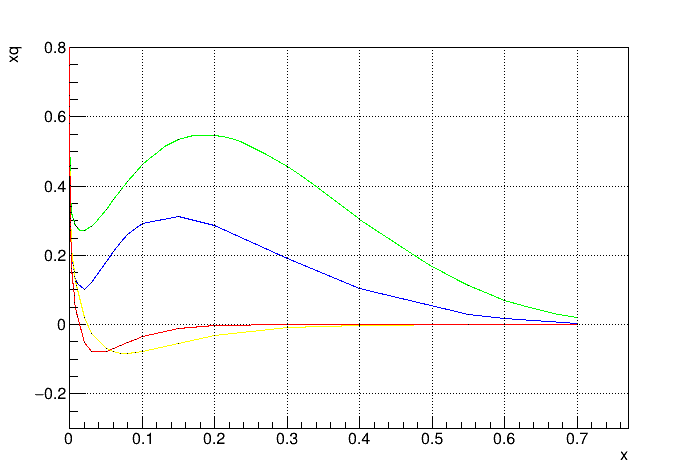
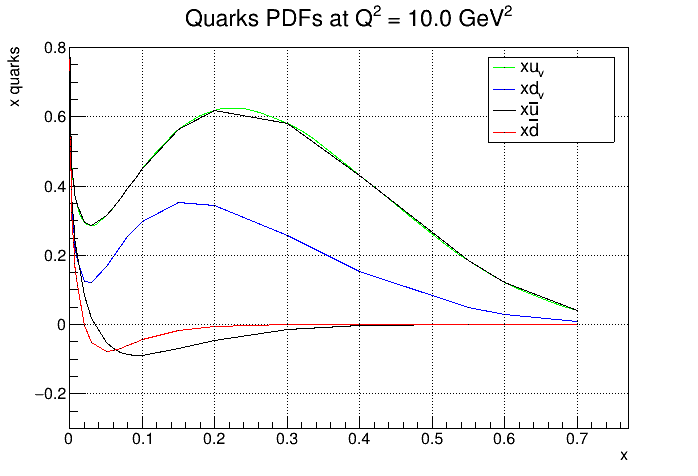
corrections in pdfs constants, including gluon graph in pdf_evolution_graphs and deleting old files

diff --git a/pyroot_graphs.py b/pyroot_graphs.py
@@ -3,14 +3,30 @@ import glob
 import pandas as pd
 import numpy as np
 from PIL import Image
+import pdf_parametrizations as pp # the pdf functions
 
 pdf_directory_url = "/opt/qcdnum-17-01-14/output/"
 imgs_url = "/home/angelica/Downloads/thesis/imgs/root/"
 names = []
 
+
+# PDFs
+def x_uv(x):
+  A, B, C, D, E, F, G = pp.A_uv, pp.B_uv, pp.C_uv , 0, pp.E_uv, pp.F_uv, pp.G_uv
+  return A*x**B * (1-x)**C * (1 + D*x + E*x**2 + F*np.log(x) + G*np.log(x)**2) 
+def x_dv(x):
+  A, B, C, D, E, F, G = 0, pp.B_dv, pp.C_dv, 0, 0 , 0, 0
+  return A*x**B * (1-x)**C * (1 + D*x + E*x**2 + F*np.log(x) + G*np.log(x)**2) 
+
+
+# for quarks:
 c1 = ROOT.TCanvas('c1', 'quarks PDFs', 200, 10, 700, 500)
-c1.cd()
 c1.SetGrid()
+
+# for the gluon:
+#c2 = ROOT.TCanvas('c2', 'gluon PDF', 200, 10, 700, 500)
+#c2.SetGrid()
+
 
 # for each pdf file
 for csv in glob.glob(pdf_directory_url + "*.csv"):
@@ -20,7 +36,7 @@ for csv in glob.glob(pdf_directory_url + "*.csv"):
   # to get the q energy scale
   array = csv.split("_")
   q = float(array[2][:-4])
-  names.append(int(q*10))
+  names.append(int(q*100))
   
   # the pdfs
   x = np.asarray(dataset.iloc[:,0])
@@ -31,31 +47,66 @@ for csv in glob.glob(pdf_directory_url + "*.csv"):
 
   xuv, xdv, xubar, xdbar = pdfs[0], pdfs[1], pdfs[2], pdfs[3]
 
-  # Graphs
-  xuv_graph = ROOT.TGraph(number_lines, x, xuv)
-  xuv_graph.SetLineColor(3)             # TAttLine Class attributes: https://root.cern.ch/doc/master/classTAttLine.html
-  xuv_graph.SetTitle(" ")
-  xuv_graph.GetXaxis().SetTitle("x")
-  xuv_graph.GetYaxis().SetTitle(r"xq")
-  xuv_graph.GetYaxis().SetRangeUser(-0.3,0.8)
-  #xuv_graph.GetXaxis().SetRangeUser(0,1)
 
+  # TGraphs for quarks
+  xuv_graph = ROOT.TGraph(number_lines, x, xuv)
   xdv_graph = ROOT.TGraph(number_lines, x, xdv)
-  xdv_graph.SetLineColor(4) 
   xubar_graph = ROOT.TGraph(number_lines, x, xubar)
-  xubar_graph.SetLineColor(5) 
   xdbar_graph = ROOT.TGraph(number_lines, x, xdbar)
+  
+  xuv_fitting = ROOT.TGraph(number_lines, x, xuv)
+
+  # line color
+  xuv_graph.SetLineColor(3)             # TAttLine Class attributes: https://root.cern.ch/doc/master/classTAttLine.html
+  xdv_graph.SetLineColor(4) 
   xdbar_graph.SetLineColor(2)
 
-  # Draw this graph with its current attributes
-  xuv_graph.Draw("ACP")   # in parenthesis are the options (see: https://root.cern.ch/doc/master/classTGraphPainter.html)
+  # least square fit
+  xuv_fitting.LeastSquareFit(1, x_uv(x))  #6, [pp.A_uv, pp.B_uv, pp.C_uv, pp.E_uv, pp.F_uv, pp.G_uv]
+
+  # converting from python functions to TF1 ROOT classes
+  TF1_xuv = ROOT.TF1("TF1_xuv", "[0]*TMath::Power(x, [1]) * TMath::Power(1-x, [2]) * (1 + [3]*x + [4]*TMath::Power(x, 2) + [5]*TMath::Log(x) + [6]* TMath::Power(TMath::Log(x), 2) )", 0, 1)   # 0, 1: x range
+  #pp.x, pp.A_uv, pp.B_uv, pp.C_uv , 0, pp.E_uv, pp.F_uv, pp.G_uv
+  #TF1_xuv.SetParameter(0, *pp.x)
+  TF1_xuv.SetParameter(0, pp.A_uv)
+  TF1_xuv.SetParameter(1, pp.B_uv)
+  TF1_xuv.SetParameter(2, pp.C_uv)
+  TF1_xuv.SetParameter(3, 0)
+  TF1_xuv.SetParameter(4, pp.E_uv)
+  TF1_xuv.SetParameter(5, pp.F_uv)
+  TF1_xuv.SetParameter(6, pp.G_uv)
+
+  # chi square
+  xuv_chisquare = xuv_graph.Chisquare(TF1_xuv)
+  print("xuv_chisquare = ", xuv_chisquare)
+
+  # Some attributes
+  xuv_graph.SetTitle("Quarks PDFs at Q^{2} = " + str(q) + " GeV^{2}")
+  xuv_graph.GetXaxis().SetTitle("x")
+  xuv_graph.GetYaxis().SetTitle("x quarks")
+  xuv_graph.GetYaxis().SetRangeUser(-0.3,0.8)
+
+  # Draw these graphs with their current attributes
+  xuv_graph.Draw("ACP")      # in parenthesis are the options (see: https://root.cern.ch/doc/master/classTGraphPainter.html)
   xdv_graph.Draw("pl same")
   xubar_graph.Draw("pl same")
   xdbar_graph.Draw("pl same")
+  xuv_fitting.Draw("pl same")
+
+  # legend class
+  legend = ROOT.TLegend(0.88, 0.7, 0.7, 0.88)    # x_derecha, y_abajo, x_izquierda, y_arriba --> como plano cartesiano
+  #legend.SetHeader("The Legend Title","C")
+  legend.AddEntry(xuv_graph,"xu_{v}")
+  legend.AddEntry(xdv_graph,"xd_{v}")
+  legend.AddEntry(xubar_graph,"x#bar{u}")
+  legend.AddEntry(xdbar_graph,"x#bar{d}")
+  legend.Draw()
 
   # updating the canvas
   c1.Update()
-  c1.SaveAs(imgs_url + str(int(q*10)) + ".png")
+  c1.SaveAs(imgs_url + str(int(q*100)) + ".png")
+
+  # for the gluon:
 
 
 # Creates the gifs with the output imgs

diff --git a/fixedparameterscalculation_and_xpdfq0graph.py b/fixedparameterscalculation_and_xpdfq0graph.py
@@ -22,7 +22,7 @@ gamma_s = f_s/(1-f_s)
 B_uv, C_uv, E_uv, F_uv, G_uv = 0.76, 4.6, 2.6, 0.35, 0.049
 B_g, C_g, F_g, G_g = -0.52, 4.5, 0.217, 0.0112
 B_dv, C_dv = 0.99, 4.7
-A_dbar, B_dbar, C_dbar, D_dbar, F_dbar = 0.14, -0.33, 24, 28, 0.071 
+A_dbar, B_dbar, C_dbar, D_dbar, F_dbar = 0.14, -0.33, 24, 38, 0.071 
 A_ubar, B_ubar, C_ubar, D_ubar, F_ubar = A_dbar, B_dbar, 11, 18, F_dbar
 
 """
@@ -100,14 +100,22 @@ x_qv = x_uv + x_dv   		# pdf for the sum of valence quarks pdfs
 x_qs = x_ubar + x_dbar  # pdf for the sum of sea quarks pdfs
 x_Sigma = x_uv + x_dv + 2*x_ubar + 2*(1+gamma_s)*x_dbar   
 
-print("valores iniciales x_uv: ", x_uv[0], "x_dv: ", x_dv[0], "x_ubar: ", x_ubar[0], "x_dbar: ", x_dbar[0], "x_g: ", x_g[0])
+#print("valores iniciales x_uv: ", x_uv[0], "x_dv: ", x_dv[0], "x_ubar: ", x_ubar[0], "x_dbar: ", x_dbar[0], "x_g: ", x_g[0])
+
+print("algunos valores son: \n para x=5.2427e-4: \n xg: ",  x_pdf(x[0], A_g, B_g, C_g , 0, 0, F_g, G_g), " xuv: ", x_pdf(x[0], A_uv, B_uv, C_uv , 0, E_uv, F_uv, G_uv),
+				" xdv: ", x_pdf(x[0], A_dv, B_dv, C_dv , 0, 0, 0, 0), " xubar: ", x_pdf(x[0], A_ubar, B_ubar, C_ubar , D_ubar, 0, F_ubar, 0), " xdbar: ", x_pdf(x[0], A_dbar, B_dbar, C_dbar , D_dbar, 0, F_dbar, 0) )
+
+#print("para x=0.01: \n xg: ",  x_pdf(0.01, A_g, B_g, C_g , 0, 0, F_g, G_g), " xuv: ", x_pdf(0.01, A_uv, B_uv, C_uv , 0, E_uv, F_uv, G_uv),
+#				" xdv: ", x_pdf(0.01, A_dv, B_dv, C_dv , 0, 0, 0, 0), " xubar: ", x_pdf(0.01, A_ubar, B_ubar, C_ubar , D_ubar, 0, F_ubar, 0), " xdbar: ", x_pdf(0.01, A_dbar, B_dbar, C_dbar , D_dbar, 0, F_dbar, 0) )
+
+#print(min(x_ubar), min(x_dbar), min(x_dv), min(x_uv), min(x_g))
 
 # converting to pd.DataFrames for graph in seaborn. And for convert easily into .csv
 x_q = pd.DataFrame({'x$u_{v}$': x_uv, 'x$d_{v}$': x_dv, 'x$\\bar{u}$': x_ubar, 'x$\\bar{d}$': x_dbar}, index=x)
 x_qv = pd.DataFrame({'x$q_{v}$': x_qv, 'x$q_{s}$': x_qs}, index=x)
 x_g = pd.DataFrame({'xg': x_g}, index=x)
 x_Sigma =  pd.DataFrame({'x$\\Sigma$': x_Sigma}, index=x)    # sum of all quark momentums
-print(x_q)
+#print(x_q)
 
 # Graphics
 sns.set_style("darkgrid")
@@ -127,4 +135,4 @@ g_graph.set(xlabel = 'x', title='Gluon xPDFs')
 #sigma_graph.set_xticks([0, 0.2, 0.4, 0.6, 0.8, 1], ["$5.24^{-4}$", "$10^{-4}$", "$10^{-3}$", "$10^{-2}$", "$10^{-1}$", "$10^{0}$"])
 #g_graph.set_xticks([0, 0.2, 0.4, 0.6, 0.8, 1], ["$5.24^{-4}$", "$10^{-4}$", "$10^{-3}$", "$10^{-2}$", "$10^{-1}$", "$10^{0}$"])
 #plt.show()
-plt.savefig("imgs/python/xpdfs_q0.png")
+#plt.savefig("imgs/python/xpdfs_q0.png")

diff --git a/pdfs_evolution_graphs.py b/pdfs_evolution_graphs.py
@@ -16,7 +16,7 @@ from PIL import Image
 sns.set_style("darkgrid")
 
 output_directory_url = "/opt/qcdnum-17-01-14/output/"   # url of the directory where the output files of qcdnum script are stored.
-save_imgs_url = "/home/angelica/Downloads/thesis/imgs/python/"
+save_imgs_url = "/home/angelica/Documents/thesis/imgs/python/"
 
 names = []
 
@@ -32,8 +32,8 @@ for csv in glob.glob(output_directory_url + "*.csv"):
   names.append(int(q*10))
 
   plt.figure()
-  sns.lineplot(data=dataset.iloc[:,:-1])   # without gluons graph
-  plt.ylim((-1, 1.4))
+  sns.lineplot(data=dataset.iloc[:,:])   # without gluons graph
+  plt.ylim((-0.4, 1))
   plt.savefig(save_imgs_url + str(int(q*10)) + ".png")
 
 names.sort()
